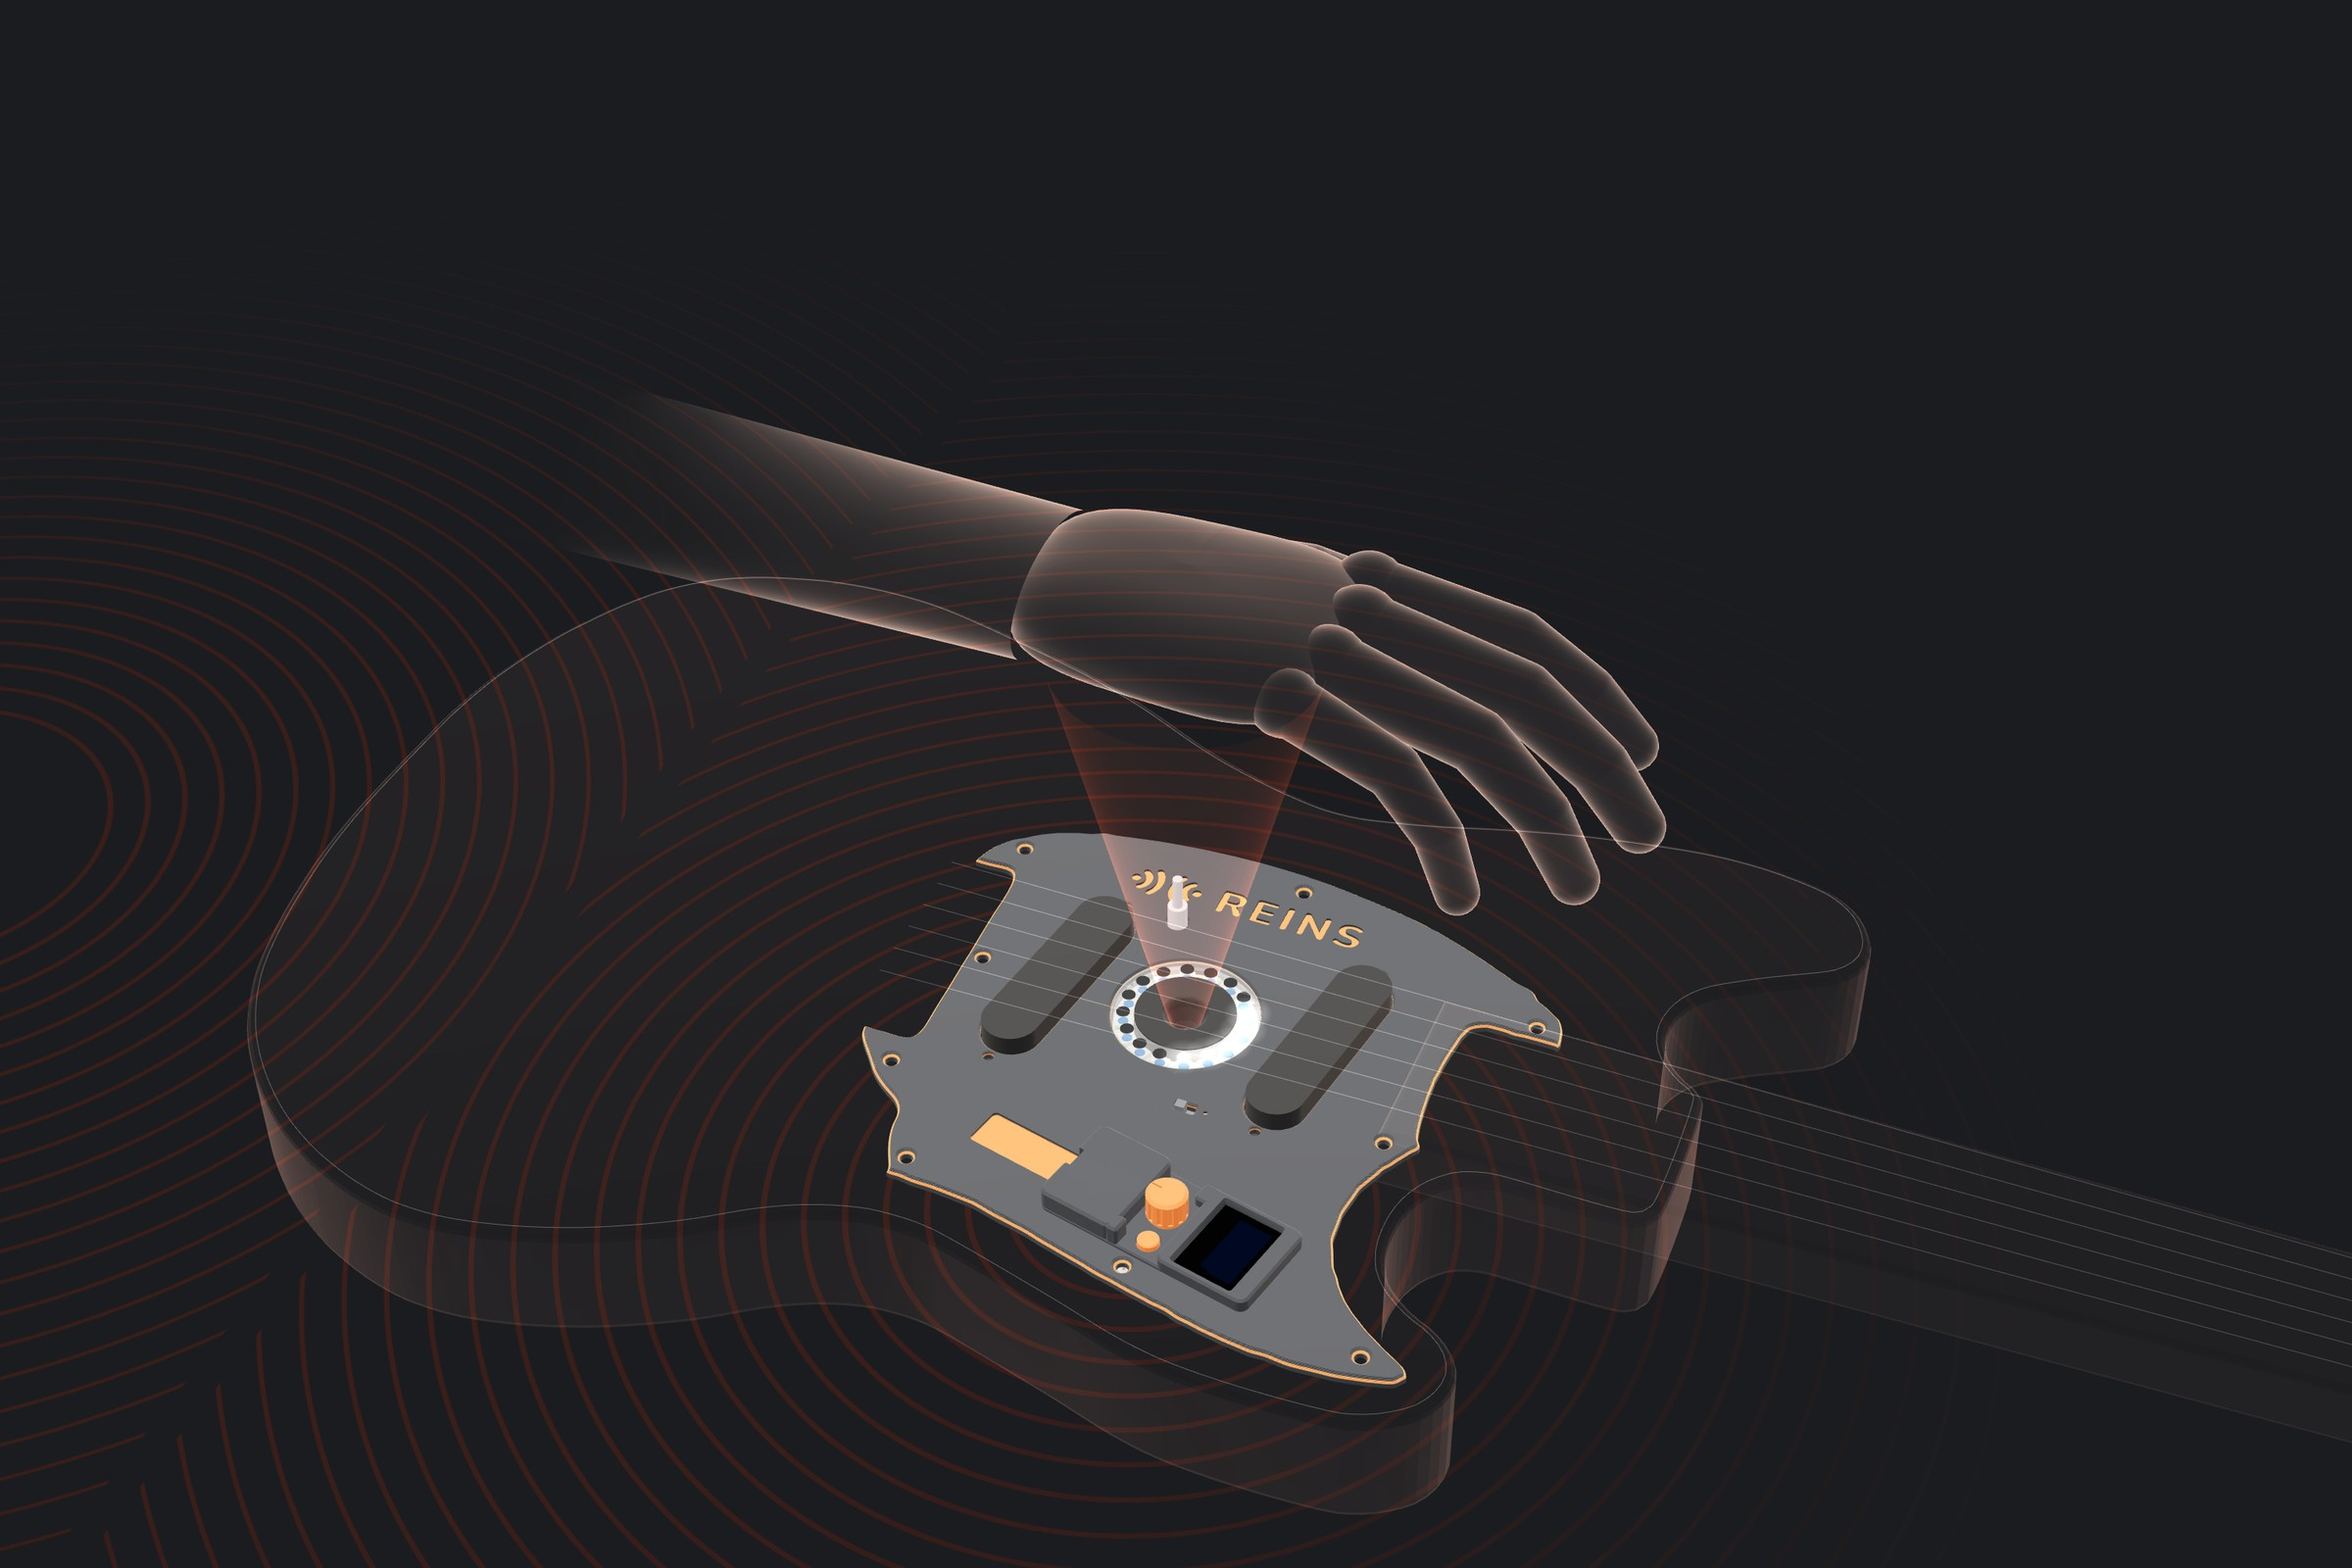
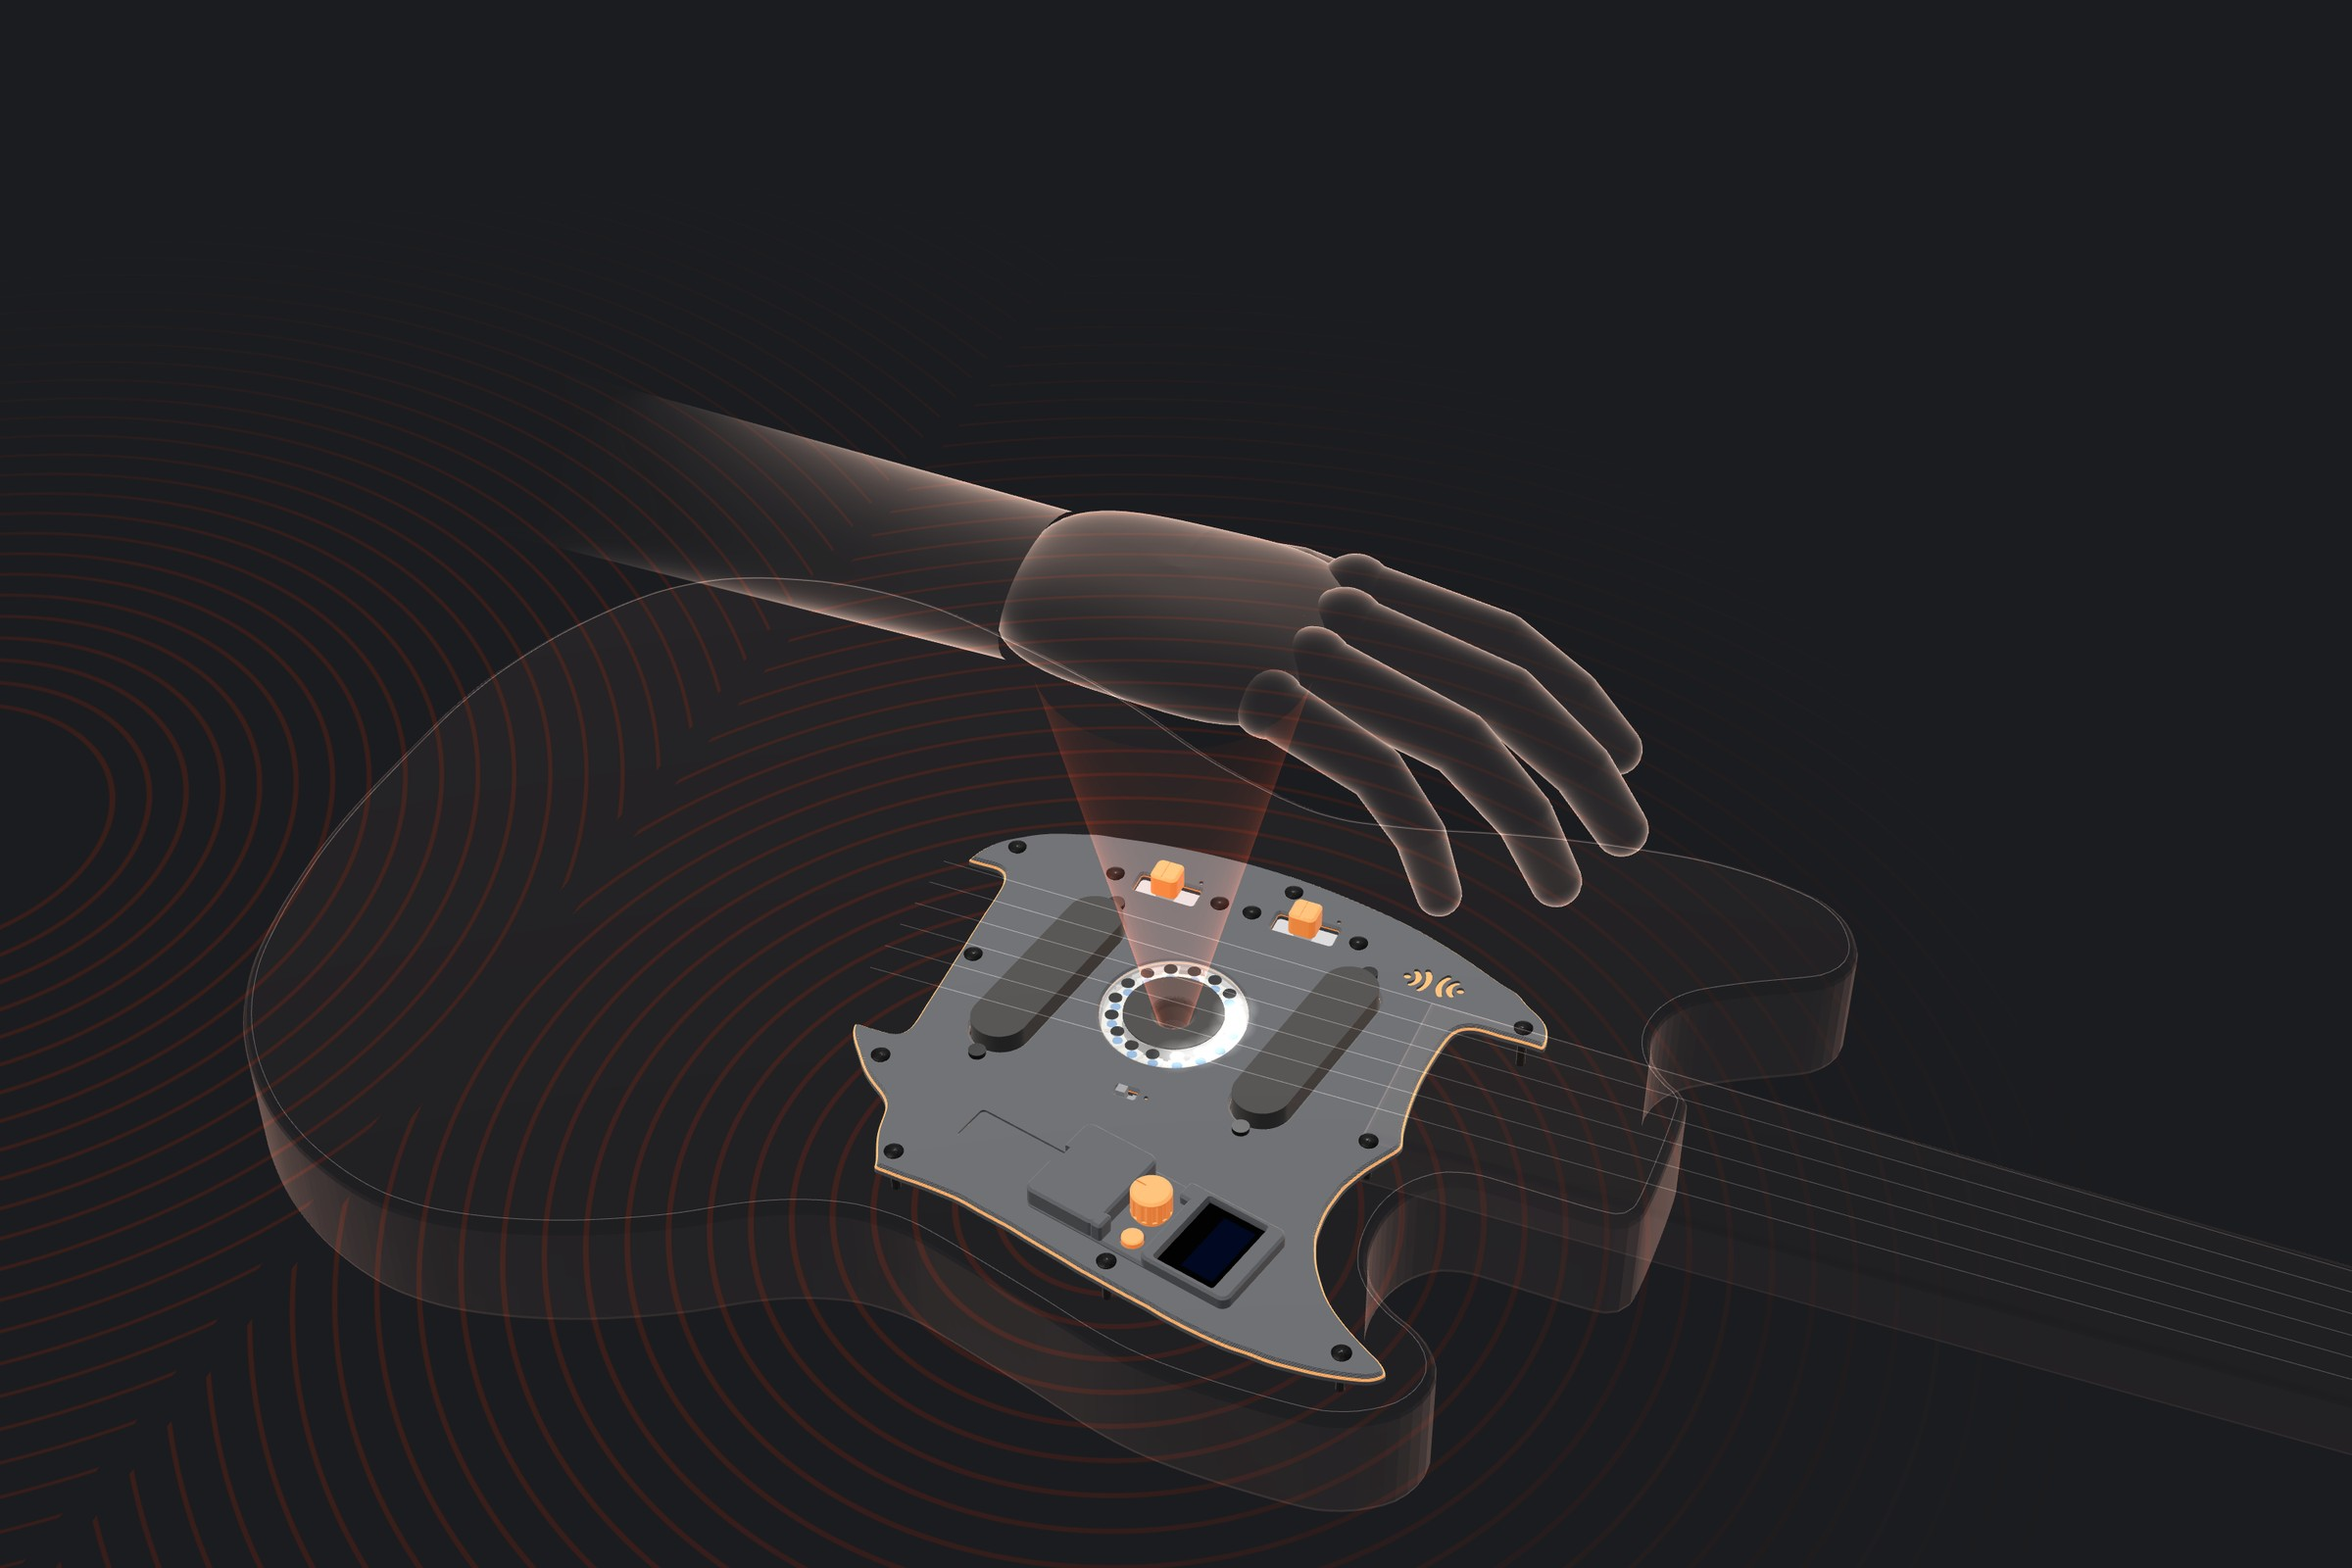
Reins: pictures of pickguard version 3, slide switches in the specs
Claude-Session: https://claude.ai/code/session_014VE9jrCTwYyAbo4YHnZdRZ

diff --git a/src/data/projects.ts b/src/data/projects.ts
@@ -27,7 +27,7 @@ export const projects: Project[] = [
     alias: "reins",
     kind: "hardware",
     specs: [
-      { label: "guitar side", value: "VL53L1X ToF · 16 LED ring · OLED · encoder · LiPo" },
+      { label: "guitar side", value: "VL53L1X ToF · 16 LED ring · OLED · encoder · LiPo · 2 Mustang slide switches" },
       { label: "box", value: "8 × 8 ToF · USB MIDI · DIN out · EXP · FOOT · OLED · LED bar" },
       { label: "link", value: "ESP-NOW, 2 to 4 ms" },
       { label: "mcu", value: "2 × XIAO ESP32-S3" },
